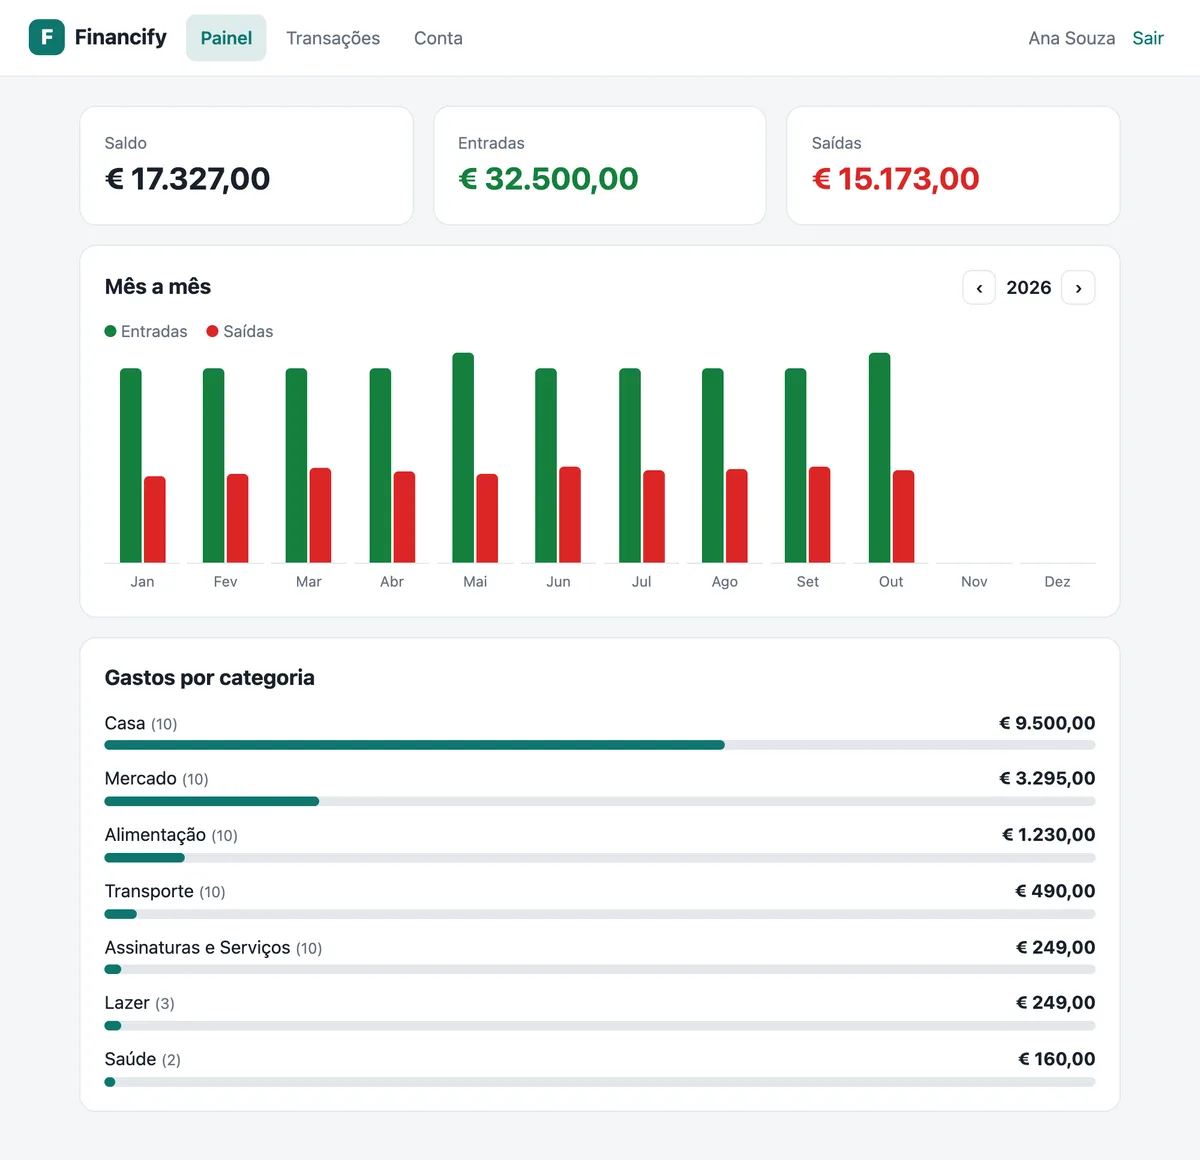
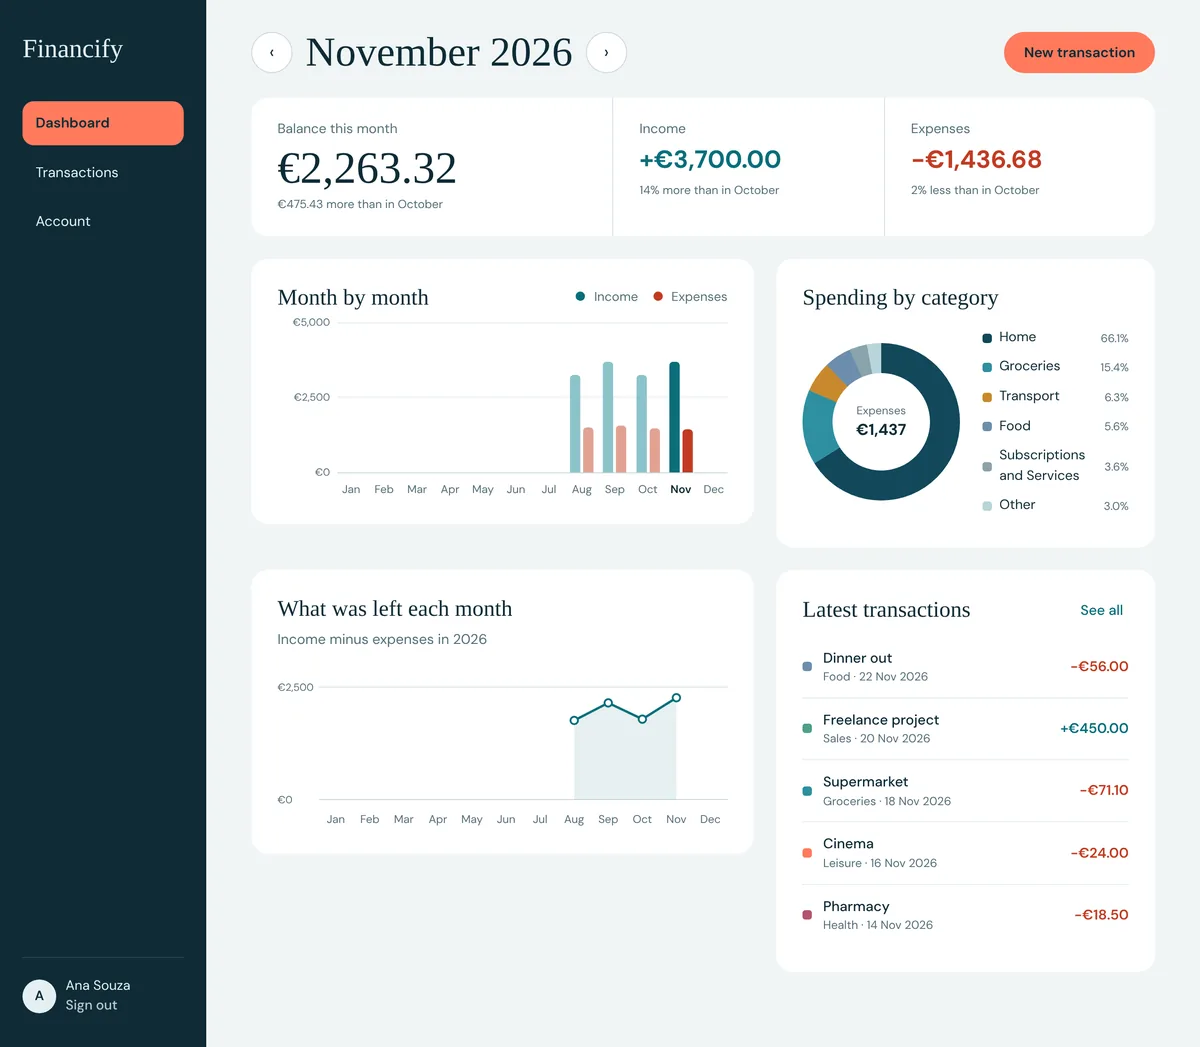
New Financify screenshot
Claude-Session: https://claude.ai/code/session_01MRUxR7yTGDvuKXwJ4qAW9z

diff --git a/lib/config.ts b/lib/config.ts
@@ -140,10 +140,10 @@ export const config = {
         main: {
           src: "/shots/financify-wide.webp",
           width: 1200,
-          height: 1160,
-          alt: "Financify dashboard with balance, income and expense cards, a month-by-month chart and spending by category.",
+          height: 1047,
+          alt: "Financify dashboard for November 2026: balance, income and expenses compared with October, a month-by-month chart, spending by category, what was left each month and the latest transactions.",
         },
-        caption: "The dashboard, with sample data.",
+        caption: "The dashboard of the demo account, with sample data.",
       },
     },
   ] as FeaturedProject[],
